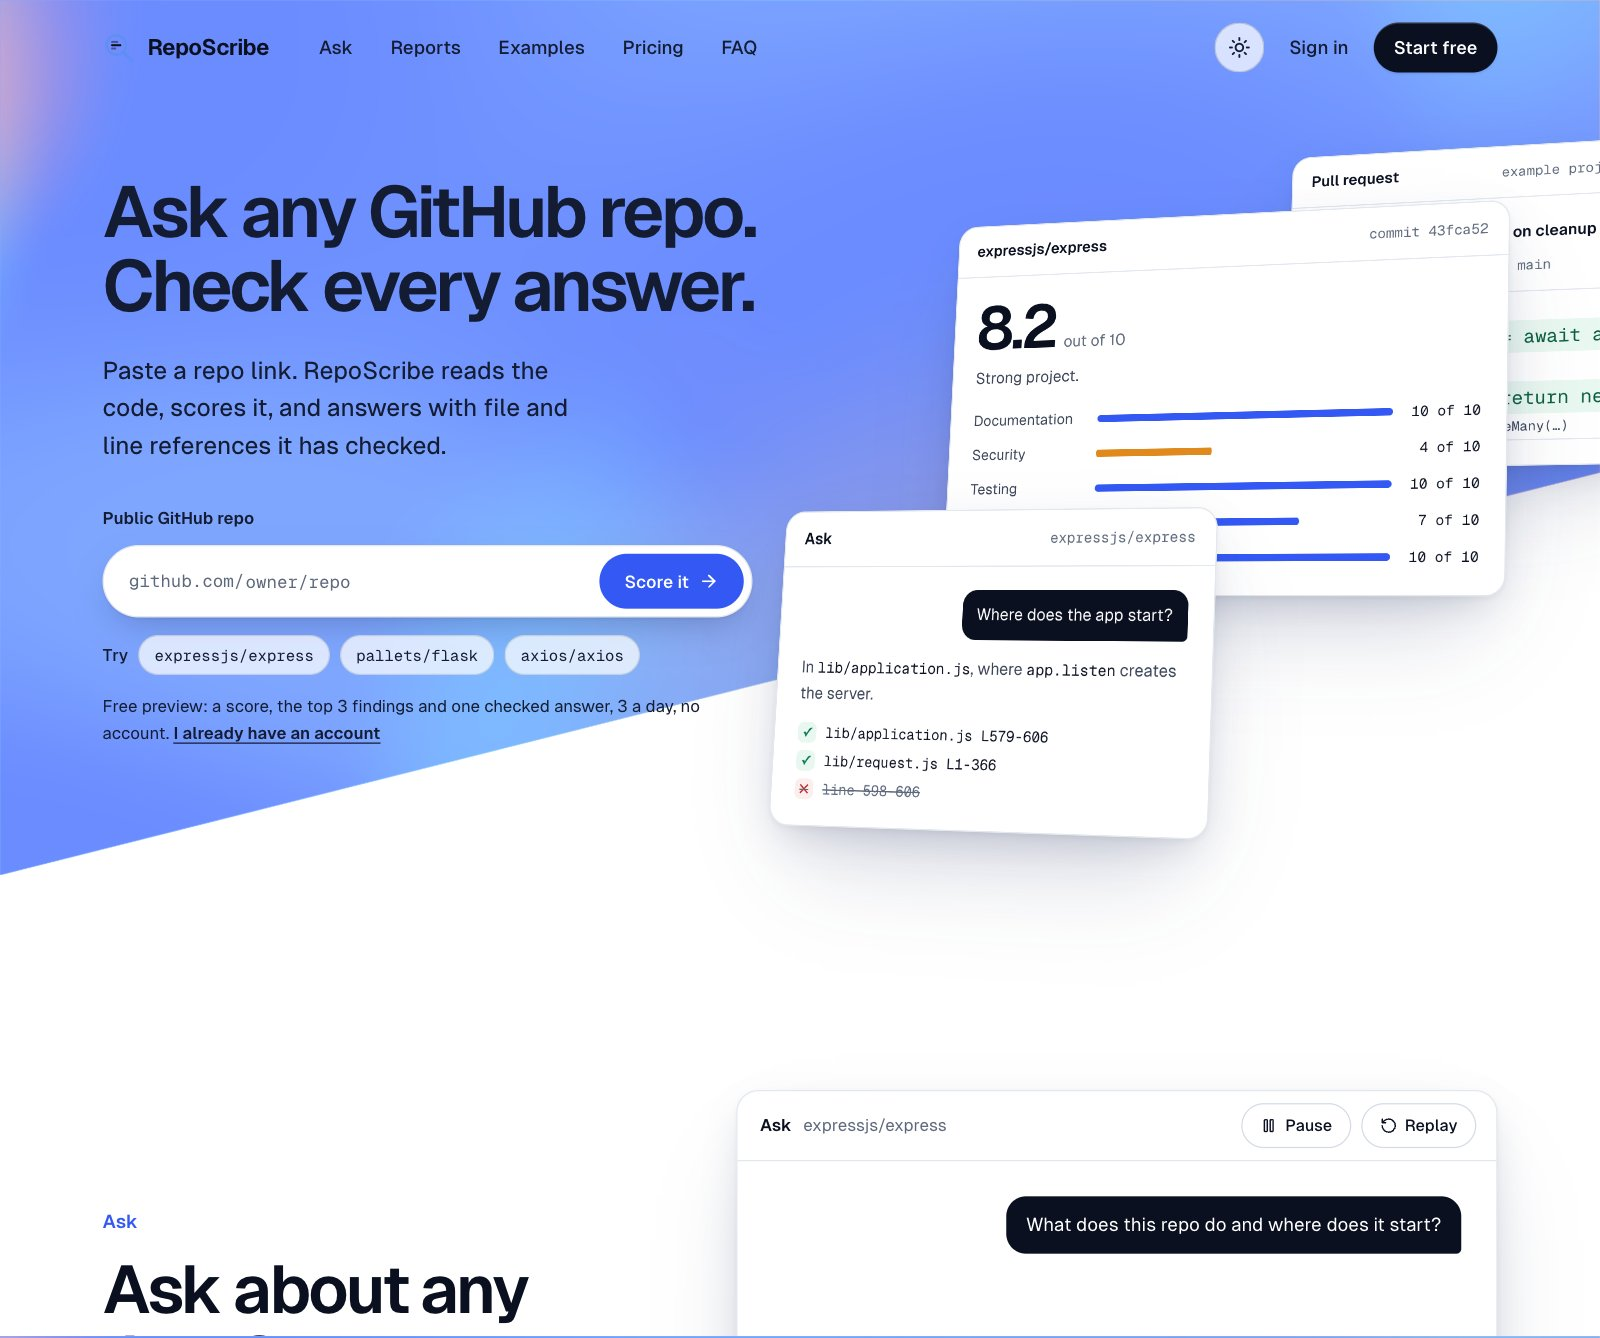
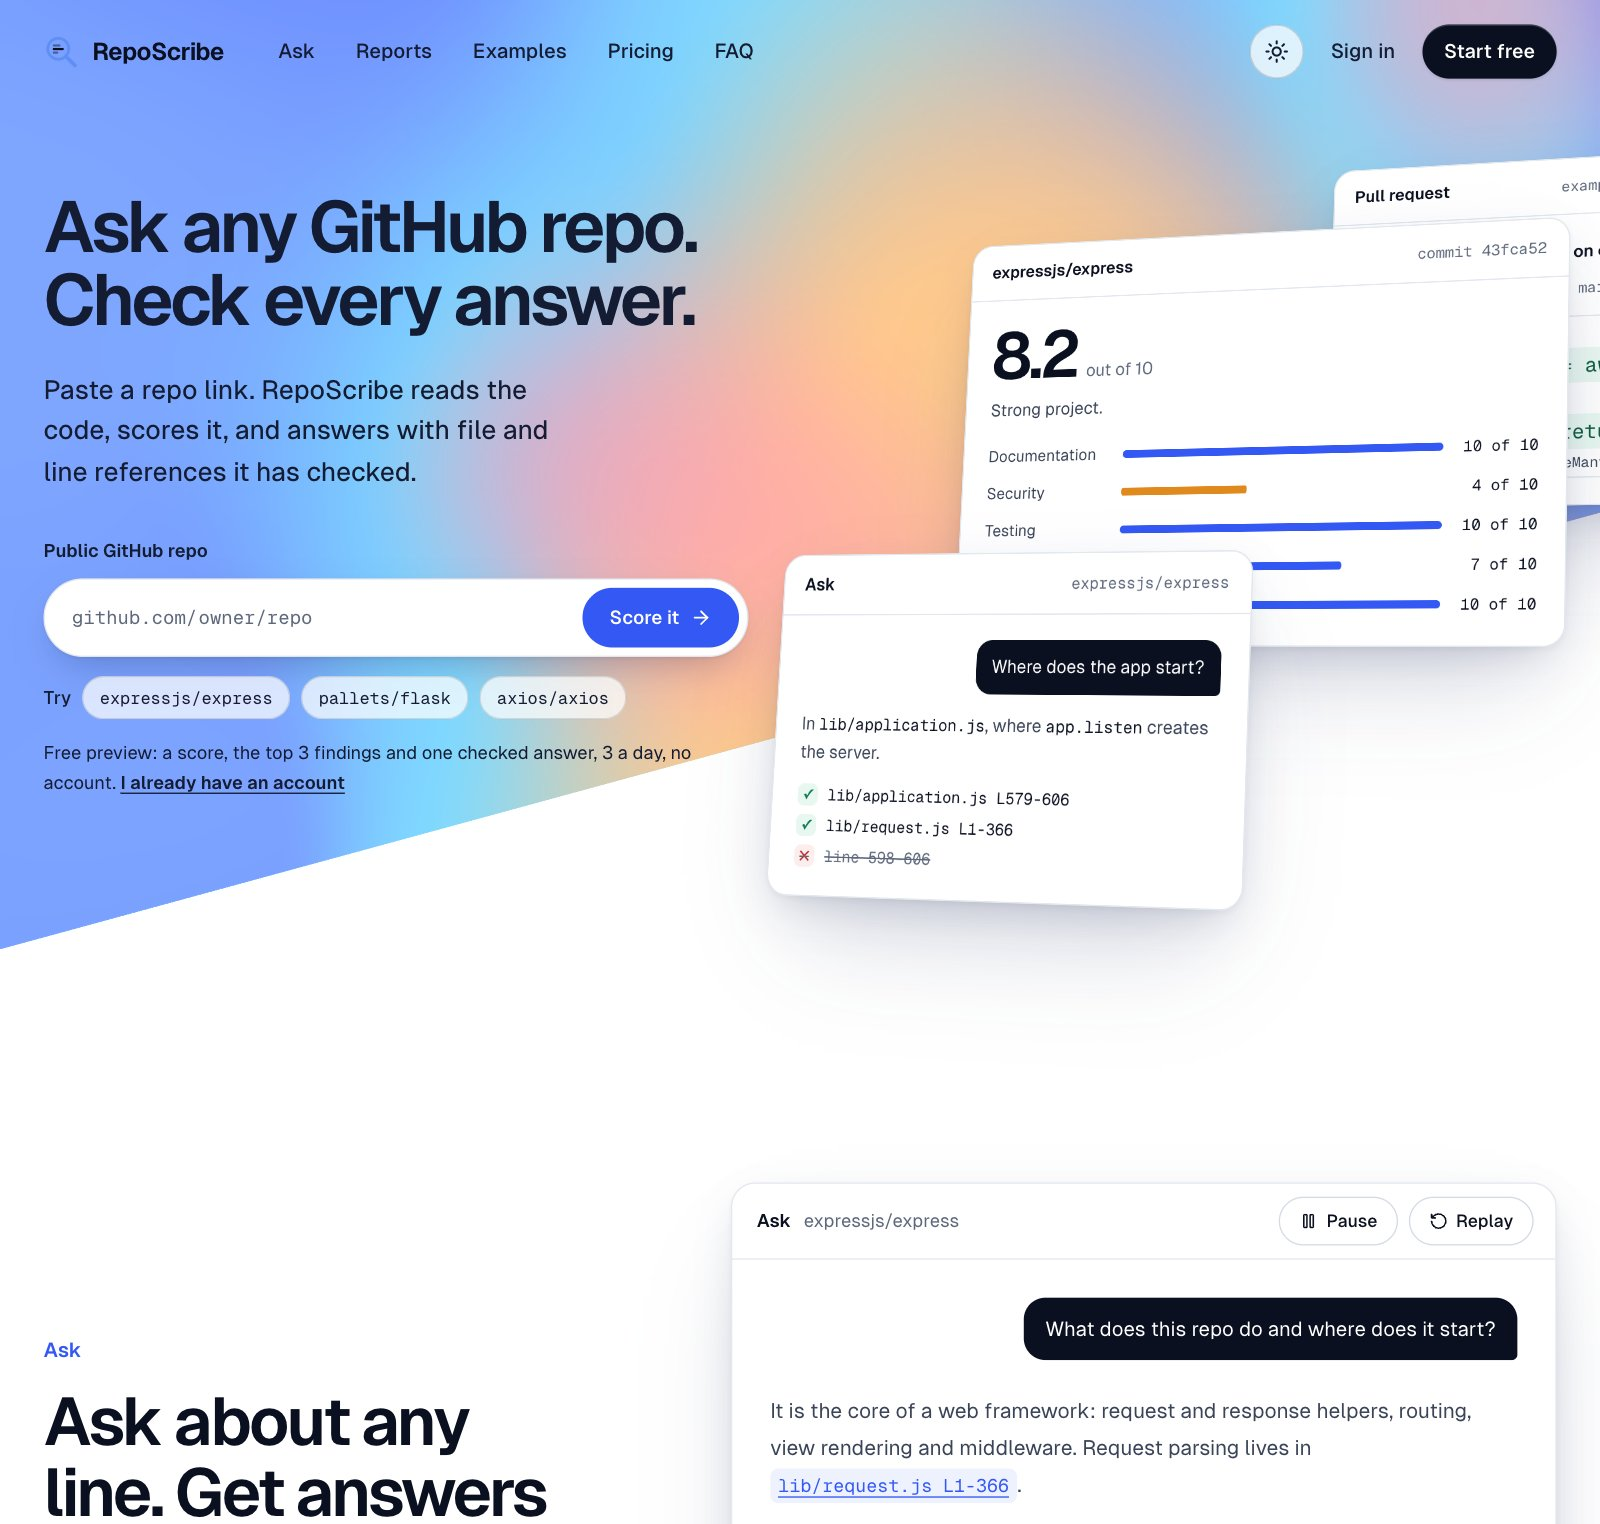
Fix alignment across the page
- Project rows sit side by side only from 1280px. Below that the halves were
  too narrow, so screenshots were cropped to a tall sliver; now they stack and
  the image keeps its 6:5 shape.
- Footer content starts and ends on the same edges as the nav (60px at 1440),
  and the email is centred on the page instead of 12px off.
- Phones: the footer clears the floating Ask about me button.
- Centred headings and short paragraphs use balanced line breaks, so the hero no
  longer ends on a lone word and held-out no longer splits at its hyphen.
- RepoScribe screenshot retaken at the card's shape so its text keeps a margin.

diff --git a/app/page.tsx b/app/page.tsx
@@ -226,10 +226,10 @@ function Hero() {
         style={{ y: reduce ? 0 : contentY }}
         className="mx-auto flex min-h-[100dvh] max-w-[1100px] flex-col items-center px-5 pt-28 text-center md:pt-32"
       >
-        <h1 className="font-display text-[clamp(2.9rem,8vw,6rem)] leading-[1.02] tracking-tight text-ink [text-shadow:0_2px_30px_rgba(8,8,13,0.35)]">
+        <h1 className="text-balance font-display text-[clamp(2.9rem,8vw,6rem)] leading-[1.02] tracking-tight text-ink [text-shadow:0_2px_30px_rgba(8,8,13,0.35)]">
           {hero.headline}
         </h1>
-        <p className="mt-6 max-w-[46ch] text-base leading-relaxed text-ink/85 md:text-lg [text-shadow:0_1px_16px_rgba(8,8,13,0.4)]">
+        <p className="mt-6 max-w-[46ch] text-balance text-base leading-relaxed text-ink/85 md:text-lg [text-shadow:0_1px_16px_rgba(8,8,13,0.4)]">
           {hero.subtext}
         </p>
         <div className="mt-9 flex flex-wrap items-center justify-center gap-3">
@@ -263,10 +263,10 @@ function Manifesto() {
 function ProjectRow({ p, flip }: { p: Project; flip: boolean }) {
   return (
     <Reveal>
-      <div className="grid items-stretch gap-5 md:grid-cols-2">
+      <div className="grid items-stretch gap-5 xl:grid-cols-2">
         <div
           className={`flex flex-col rounded-[20px] border border-line bg-card p-8 md:p-10 ${
-            flip ? "md:order-2" : ""
+            flip ? "xl:order-2" : ""
           }`}
         >
           <span className="h-7 w-7 rounded-full border border-line" aria-hidden="true" />
@@ -320,8 +320,8 @@ function ProjectRow({ p, flip }: { p: Project; flip: boolean }) {
         </div>
 
         <div
-          className={`relative min-h-[300px] overflow-hidden rounded-[20px] border border-line ${
-            flip ? "md:order-1" : ""
+          className={`relative aspect-[6/5] overflow-hidden rounded-[20px] border border-line xl:aspect-auto xl:min-h-[300px] ${
+            flip ? "xl:order-1" : ""
           }`}
         >
           {p.image ? (
@@ -347,7 +347,7 @@ function Skills() {
       <div className="mx-auto max-w-[900px]">
         <Reveal className="text-center">
           <Eyebrow>{skillsHeading.eyebrow}</Eyebrow>
-          <h2 className="mt-4 font-display text-[clamp(2.4rem,5vw,4rem)] leading-tight tracking-tight text-ink">
+          <h2 className="mt-4 text-balance font-display text-[clamp(2.4rem,5vw,4rem)] leading-tight tracking-tight text-ink">
             {skillsHeading.headline}
           </h2>
         </Reveal>
@@ -375,7 +375,7 @@ function Work() {
       <div className="mx-auto max-w-[1200px]">
         <Reveal className="text-center">
           <Eyebrow>{projectsHeading.eyebrow}</Eyebrow>
-          <h2 className="mt-4 font-display text-[clamp(2.4rem,5vw,4rem)] leading-tight tracking-tight text-ink">
+          <h2 className="mt-4 text-balance font-display text-[clamp(2.4rem,5vw,4rem)] leading-tight tracking-tight text-ink">
             {projectsHeading.headline}
           </h2>
         </Reveal>
@@ -396,12 +396,12 @@ function Metrics() {
       <div className="mx-auto max-w-[900px] text-center">
         <Reveal>
           <Eyebrow>{metricsSection.eyebrow}</Eyebrow>
-          <h2 className="mt-4 font-display text-[clamp(2.4rem,5vw,4rem)] leading-[1.08] tracking-tight text-ink">
+          <h2 className="mt-4 text-balance font-display text-[clamp(2.4rem,5vw,4rem)] leading-[1.08] tracking-tight text-ink">
             {metricsSection.headline[0]}
             <br />
             {metricsSection.headline[1]}
           </h2>
-          <p className="mx-auto mt-6 max-w-[42ch] text-sm leading-relaxed text-ink-dim md:text-base">
+          <p className="mx-auto mt-6 max-w-[42ch] text-balance text-sm leading-relaxed text-ink-dim md:text-base">
             {metricsSection.subtext}
           </p>
         </Reveal>
@@ -432,7 +432,7 @@ function About() {
       <div className="mx-auto max-w-[1000px]">
         <Reveal className="text-center">
           <Eyebrow>{about.eyebrow}</Eyebrow>
-          <h2 className="mt-4 font-display text-[clamp(2.2rem,4.5vw,3.5rem)] leading-tight tracking-tight text-ink">
+          <h2 className="mt-4 text-balance font-display text-[clamp(2.2rem,4.5vw,3.5rem)] leading-tight tracking-tight text-ink">
             {about.headline}
           </h2>
           <p className="mx-auto mt-6 max-w-[60ch] text-base leading-relaxed text-ink-dim">
@@ -514,10 +514,10 @@ function ContactCTA() {
       <div className="mx-auto max-w-[900px] text-center">
         <Reveal>
           <Eyebrow>{contact.eyebrow}</Eyebrow>
-          <h2 className="mt-5 font-display text-[clamp(3rem,9vw,7rem)] leading-[0.98] tracking-tight text-ink [text-shadow:0_2px_40px_rgba(8,8,13,0.4)]">
+          <h2 className="mt-5 text-balance font-display text-[clamp(3rem,9vw,7rem)] leading-[0.98] tracking-tight text-ink [text-shadow:0_2px_40px_rgba(8,8,13,0.4)]">
             {contact.headline}
           </h2>
-          <p className="mx-auto mt-6 max-w-[44ch] text-sm leading-relaxed text-ink-dim md:text-base">
+          <p className="mx-auto mt-6 max-w-[44ch] text-balance text-sm leading-relaxed text-ink-dim md:text-base">
             {contact.subtext}
           </p>
           <div className="mt-10 flex flex-wrap items-center justify-center gap-3">
@@ -537,8 +537,8 @@ function ContactCTA() {
 
 function Footer() {
   return (
-    <footer className="border-t border-line bg-bg px-5 py-16 md:px-10">
-      <div className="mx-auto max-w-[1400px]">
+    <footer className="border-t border-line bg-bg pb-28 pt-16 md:pb-16">
+      <div className="mx-auto max-w-[1400px] px-5 md:px-10">
         <div className="grid gap-12 md:grid-cols-[1.2fr_1fr_1fr_1fr]">
           <p className="font-display text-2xl leading-tight text-ink">
             {footer.tagline[0]}
@@ -569,7 +569,7 @@ function Footer() {
           ))}
         </div>
 
-        <div className="mt-14 flex flex-col gap-4 border-t border-line pt-6 text-sm text-ink-faint sm:flex-row sm:items-center sm:justify-between">
+        <div className="mt-14 flex flex-col gap-4 border-t border-line pt-6 text-sm text-ink-faint sm:grid sm:grid-cols-[1fr_auto_1fr] sm:items-center">
           <span className="font-display text-base text-ink-dim">
             {profile.fullName}<sup className="ml-0.5 text-[0.6em] align-super">®</sup>
           </span>
@@ -579,7 +579,7 @@ function Footer() {
           >
             {profile.email}
           </a>
-          <span>{profile.footerNote}</span>
+          <span className="sm:justify-self-end">{profile.footerNote}</span>
         </div>
       </div>
     </footer>
